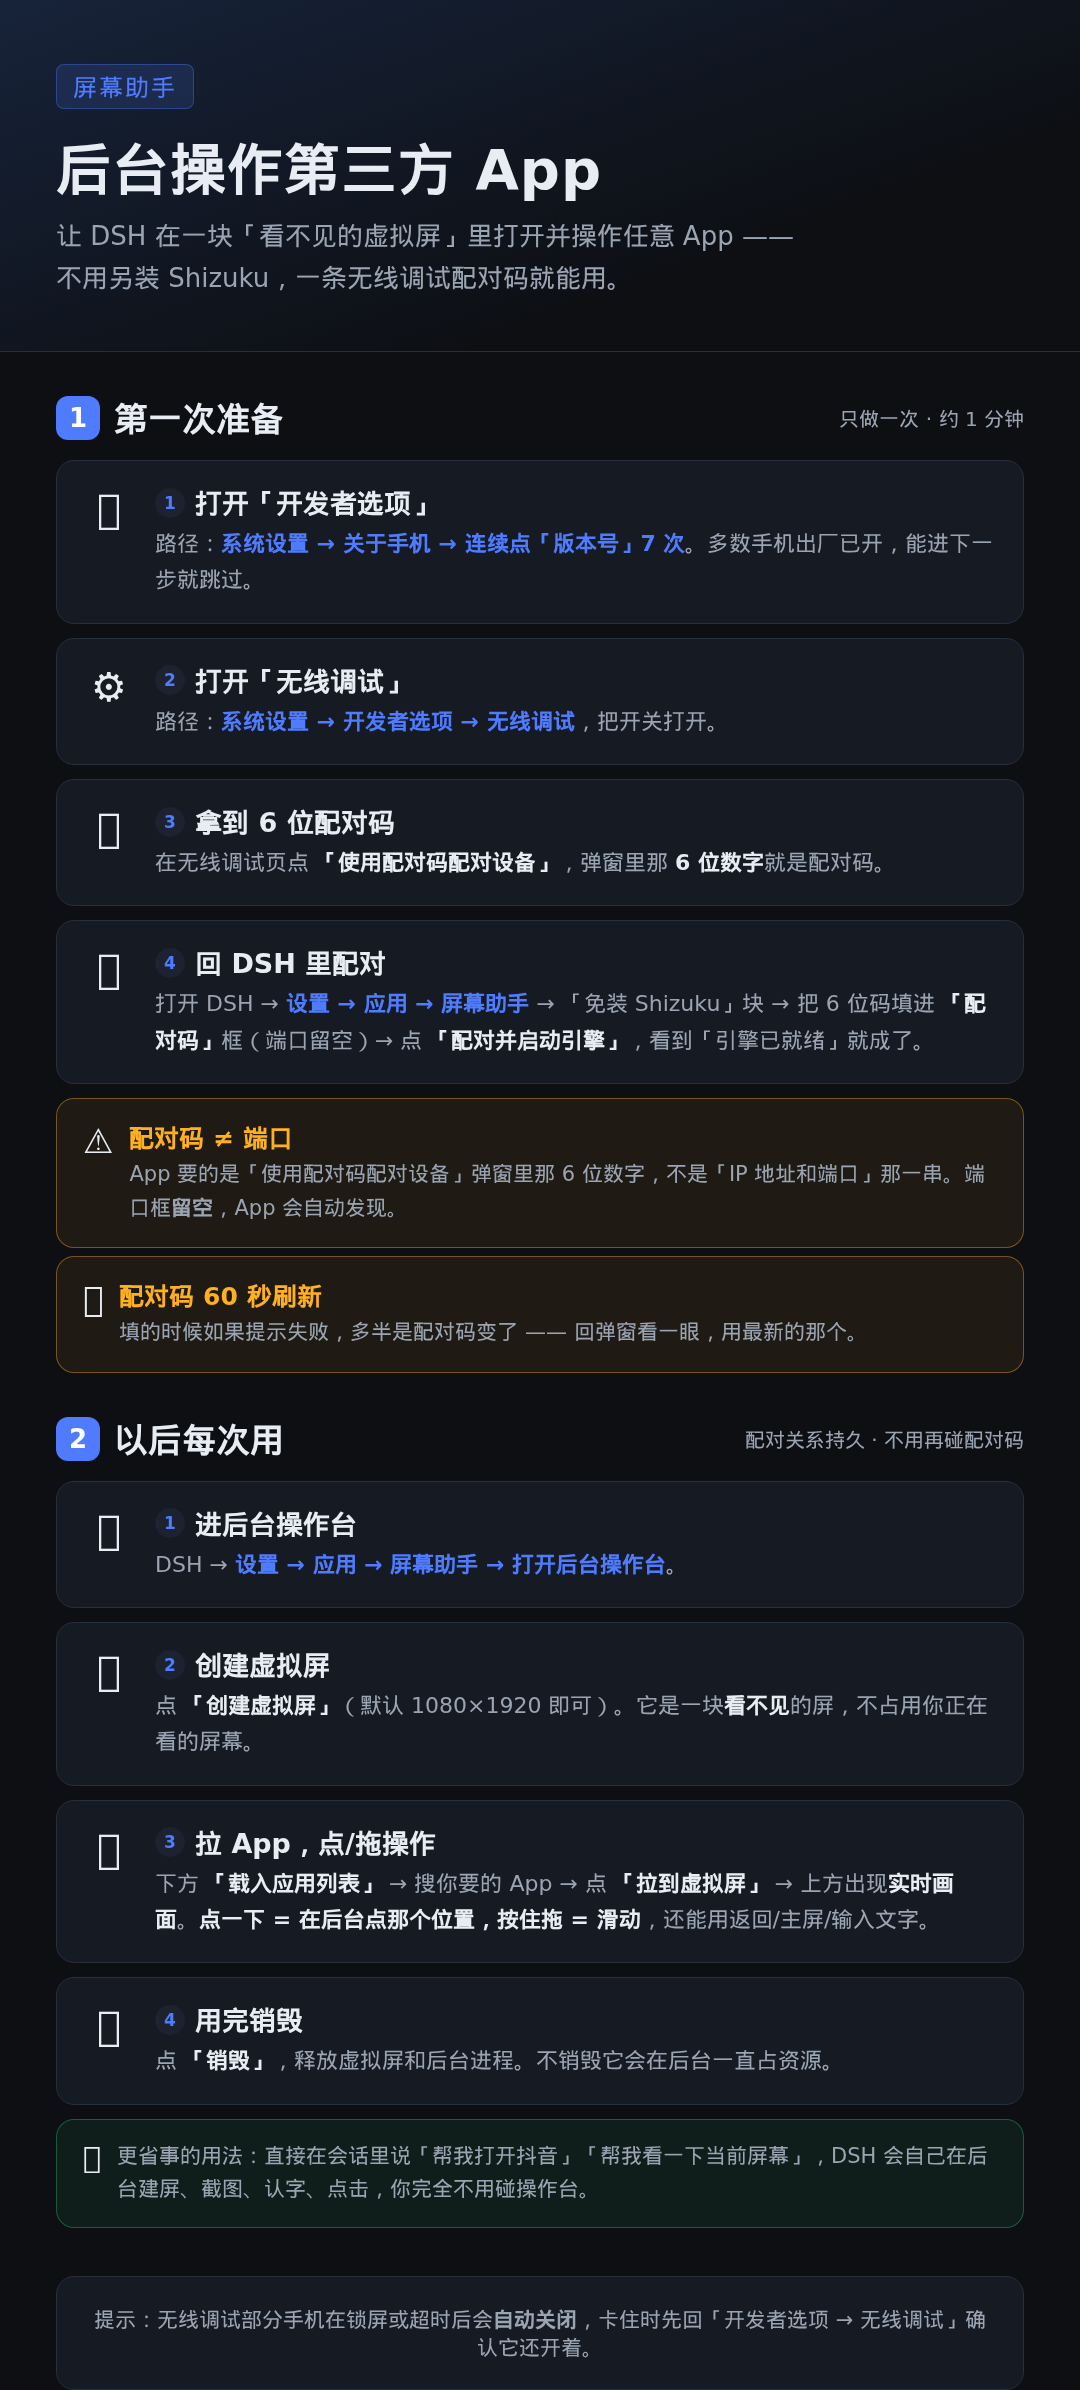
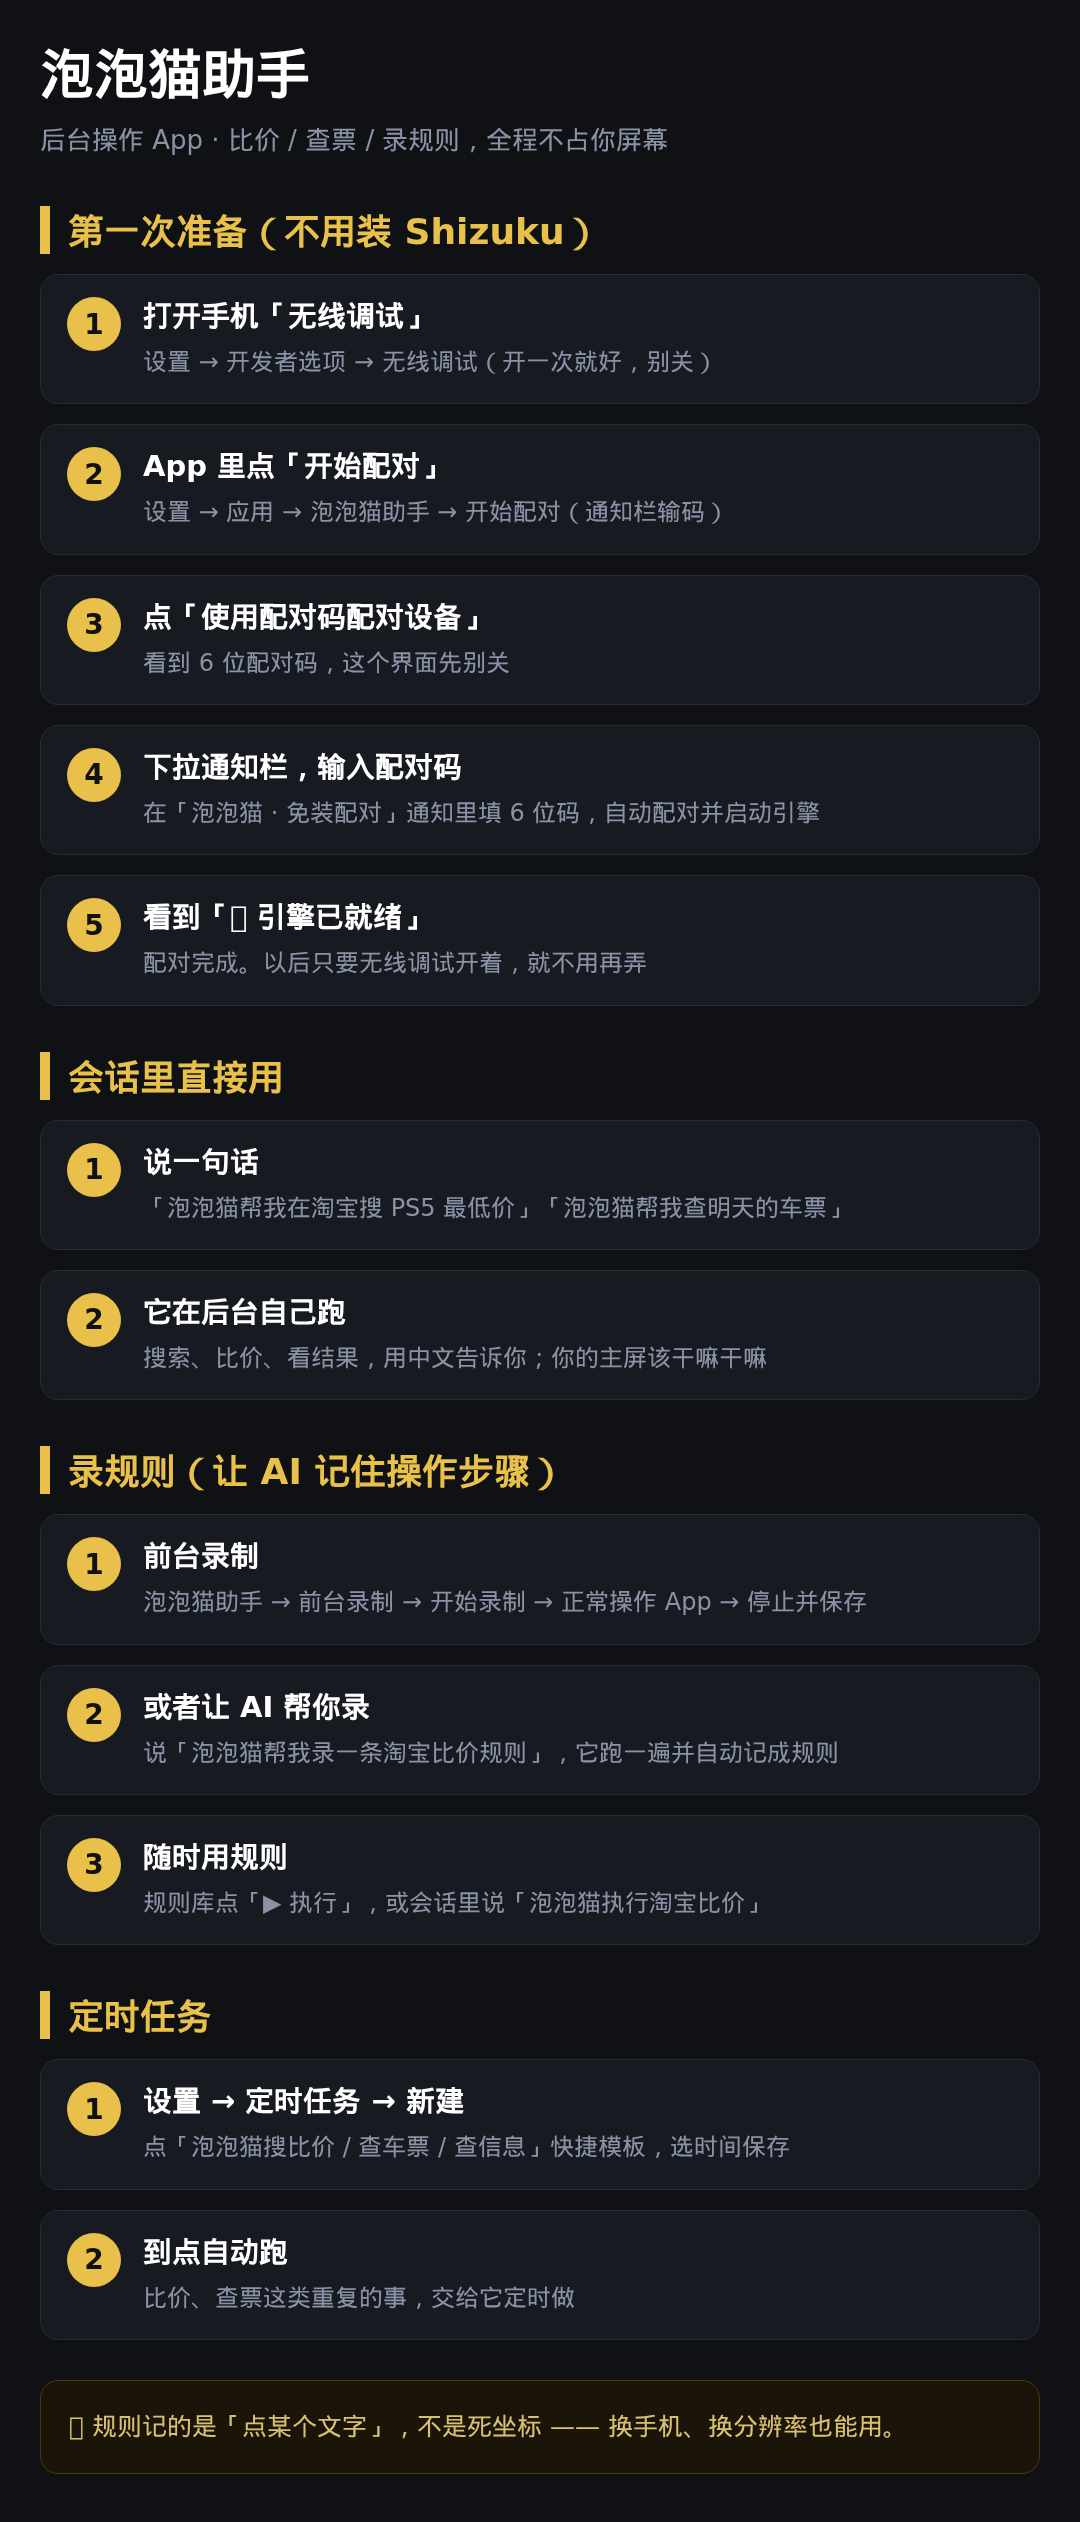
fix(泡泡猫): 去掉「去授权 Shizuku」按钮 + 图文说明更新到新流程
1) 用户装的是免装通道、没有 Shizuku，设置页那个「去授权 Shizuku」按钮点了没反应。
   改成提示「用上面的免装 Shizuku 配对启动，不用装 Shizuku」。

2) 图文说明图还是旧版（讲旧的后台操作台流程）。重新生成 1080×2522 长图，
   内容四段：第一次准备（mDNS 自动找配对端口 + 通知栏输码）＋ 会话直接用 ＋
   录规则（前台/AI）＋ 定时任务。

diff --git a/app/lib/ui/pages/phone_agent_settings.dart b/app/lib/ui/pages/phone_agent_settings.dart
@@ -153,20 +153,11 @@ class _PhoneAgentSettingsSectionState extends State<PhoneAgentSettingsSection> {
         const _RecorderBlock(),
         const SizedBox(height: 12),
         if (!connected)
-          FilledButton.icon(
-            style: FilledButton.styleFrom(
-              minimumSize: const Size.fromHeight(44),
-            ),
-            icon: const Icon(Icons.security, size: 18),
-            label: Text(context.tr('去授权 Shizuku')),
-            onPressed: () async {
-              try {
-                await DshHost.channel
-                    .invokeMethod<bool>('shizukuRequestPermission');
-              } catch (e) {
-                DiagnosticsLog.add('dsh-phone-agent', '申请 Shizuku 授权失败：$e');
-              }
-            },
+          // 不再引导「去授权 Shizuku」——现在主推免装通道（上面的配对块），
+          // 用户没装 Shizuku 点它只会一脸茫然。
+          Text(
+            context.tr('引擎还没连上 —— 用上面的「免装 Shizuku」配对启动，不用装 Shizuku。'),
+            style: TextStyle(color: DshColors.textDim, fontSize: 11.5, height: 1.5),
           )
         else
           OutlinedButton.icon(

diff --git a/app/lib/ui/pages/phone_agent_guide_page.dart b/app/lib/ui/pages/phone_agent_guide_page.dart
@@ -5,10 +5,10 @@ import '../theme/dsh_tokens.dart';
 
 /// 「后台操作」的图文使用说明（全屏看图）。
 ///
-/// 图本身是一张竖版长图（`assets/images/phone_agent_guide.png`，1080×2390），
-/// 由 `install/make-phone-agent-guide.sh` 用 HTML + 无头 Chrome 生成。
-/// 内容分两段：第一次准备（开无线调试→拿配对码→回 App 配对）＋ 以后每次用
-/// （进操作台→建虚拟屏→拉 App→销毁）。
+/// 图本身是一张竖版长图（`assets/images/phone_agent_guide.png`，1080×2522），
+/// 由 HTML + 无头 Chrome 生成（内容源见 /tmp/guide2.html）。
+/// 内容四段：第一次准备（免装 Shizuku 配对：mDNS 自动找端口 + 通知栏输码）
+/// ＋ 会话直接用 ＋ 录规则（前台/AI）＋ 定时任务。
 ///
 /// 这里只负责「把图显示出来 + 能放大缩小」，图内容更新时**不用改代码**，
 /// 换图文件即可。
